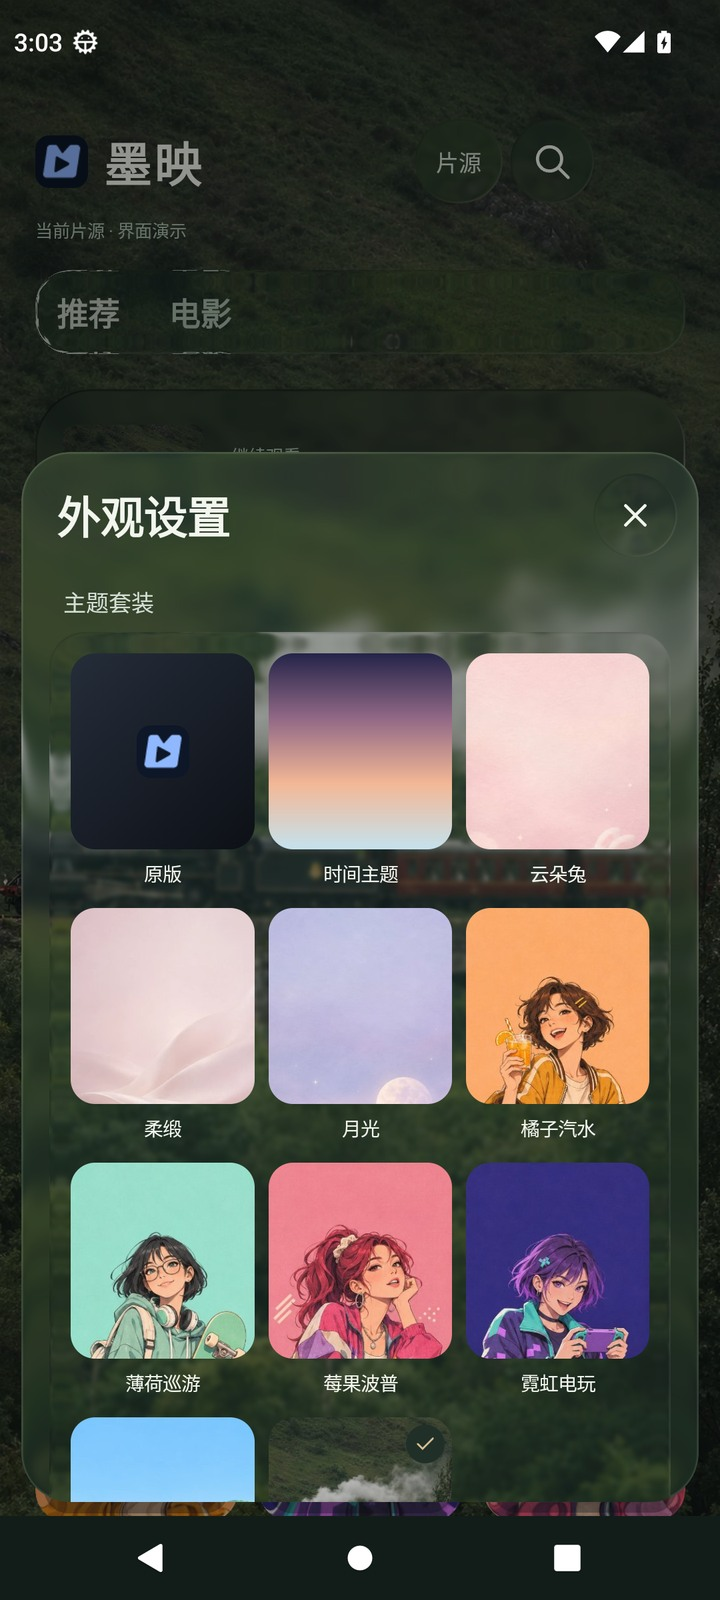
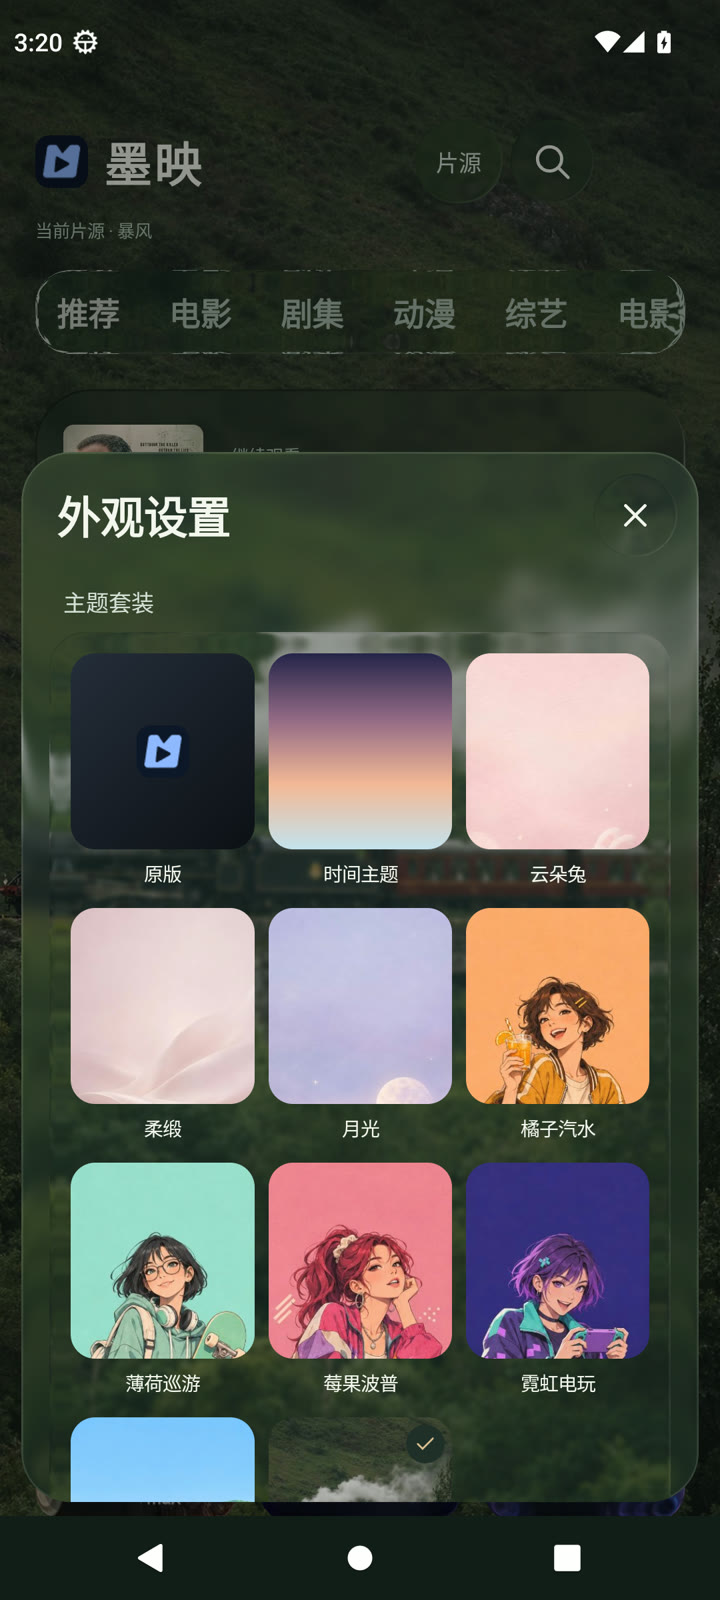
Show live Baofeng playback in README screenshots

diff --git a/README.md b/README.md
@@ -26,11 +26,11 @@ APK 支持 Android 8.0 及以上。完整的液态玻璃效果需要 Android 13 
 
 ## 界面演示
 
-截图来自运行墨映 1.9.39 的 Android 模拟器，使用「山谷列车」主题和本地示例片单。应用支持调节液态玻璃、切换深浅色模式、设置时间主题及更换壁纸。
+以下是墨映 1.9.39 在 Android 模拟器上的实拍截图。演示使用内置「暴风」片源，海报和《夜曲》的播放画面均为应用联网加载。外观设置支持调节液态玻璃、切换深浅色模式、设置时间主题及更换壁纸。
 
 | 首页 | 播放页 | 观看历史 | 外观设置 |
 | --- | --- | --- | --- |
-| <img src="docs/screenshots/home.jpg" width="220" alt="首页的玻璃导航、继续观看和推荐海报"> | <img src="docs/screenshots/player.jpg" width="220" alt="播放页的影片画面、进度条、片头设置和选集"> | <img src="docs/screenshots/history.jpg" width="220" alt="观看历史页的续播进度"> | <img src="docs/screenshots/appearance.jpg" width="220" alt="外观设置中的主题套装"> |
+| <img src="docs/screenshots/home.jpg" width="220" alt="墨映首页的暴风片源、继续观看和在线海报"> | <img src="docs/screenshots/player.jpg" width="220" alt="墨映在线播放《夜曲》时的画面、进度条、片头设置和选集"> | <img src="docs/screenshots/history.jpg" width="220" alt="墨映观看历史中的《夜曲》和续播进度"> | <img src="docs/screenshots/appearance.jpg" width="220" alt="墨映外观设置中的主题套装"> |
 
 ## 开源许可
 
